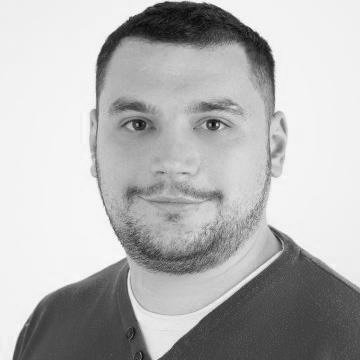
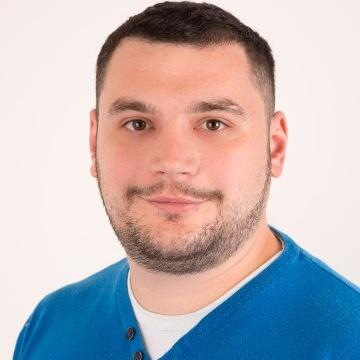
Skills animation.

diff --git a/index.html b/index.html
@@ -55,14 +55,38 @@
             display: flex;
             padding: 10px;
             position: relative;
+            cursor: pointer;
         }
 
         .avatar {
+            position: relative;
             width: 100px;
             height: 100px;
             min-width: 100px;
-            border-radius: 50%;
             margin: 0 30px 0 0;
+            transition: width 0.5s, height 0.5s, margin-right 0.5s;
+        }
+
+        .avatar img {
+            width: 100%;
+            height: 100%;
+            border-radius: 50%;
+            filter: grayscale(100%);
+            transition: filter 0.5s;
+        }
+
+        .content:hover .avatar {
+            width: 180px;
+            height: 180px;
+            margin-right: 150px;
+        }
+
+        .content:hover .avatar img {
+            filter: grayscale(0);
+        }
+
+        .content:hover .skills {
+            opacity: 1;
         }
 
         .link {
@@ -100,7 +124,15 @@
         }
 
         .skills {
-            display: none;
+            position: absolute;
+            top: 50%;
+            left: 50%;
+            width: 200px;
+            height: 200px;
+            border-radius: 50%;
+            transform: translate3d(-50%, -50%, 0);
+            opacity: 0;
+            transition: opacity 0.5s;
         }
 
         .skill {
@@ -109,14 +141,98 @@
             background-color: #222;
             white-space: nowrap;
             color: #fff;
-            padding: 0 10px;
             box-sizing: border-box;
+            position: absolute;
+            padding: 0 10px;
+            transform-origin: -100px 50%;
+            text-transform: uppercase;
+            font-size: 12px;
+            top: 50%;
+            left: 50%;
+            margin-left: 100px;
+            margin-top: -10px;
+            pointer-events: none;
         }
+
+        .skill span {
+            display: block;
+        }
+
+        .skill:nth-child(1)  { transform:  rotate(calc((360deg / 26) * 1)); } 
+        .skill:nth-child(2)  { transform:  rotate(calc((360deg / 26) * 2)); }
+        .skill:nth-child(3)  { transform:  rotate(calc((360deg / 26) * 3)); }
+        .skill:nth-child(4)  { transform:  rotate(calc((360deg / 26) * 4)); }
+        .skill:nth-child(5)  { transform:  rotate(calc((360deg / 26) * 5)); }
+        .skill:nth-child(6)  { transform:  rotate(calc((360deg / 26) * 6)); }
+        .skill:nth-child(7)  { transform:  rotate(calc((360deg / 26) * 7)); }
+        .skill:nth-child(8)  { transform:  rotate(calc((360deg / 26) * 8)); }
+        .skill:nth-child(9)  { transform:  rotate(calc((360deg / 26) * 9)); }
+        .skill:nth-child(10) { transform:  rotate(calc((360deg / 26) * 10)); }
+        .skill:nth-child(11) { transform:  rotate(calc((360deg / 26) * 11)); }
+        .skill:nth-child(12) { transform:  rotate(calc((360deg / 26) * 12)); }
+        .skill:nth-child(13) { transform:  rotate(calc((360deg / 26) * 13)); }
+        .skill:nth-child(14) { transform:  rotate(calc((360deg / 26) * 14)); }
+        .skill:nth-child(15) { transform:  rotate(calc((360deg / 26) * 15)); }
+        .skill:nth-child(16) { transform:  rotate(calc((360deg / 26) * 16)); }
+        .skill:nth-child(17) { transform:  rotate(calc((360deg / 26) * 17)); }
+        .skill:nth-child(18) { transform:  rotate(calc((360deg / 26) * 18)); }
+        .skill:nth-child(19) { transform:  rotate(calc((360deg / 26) * 19)); }
+        .skill:nth-child(20) { transform:  rotate(calc((360deg / 26) * 20)); }
+        .skill:nth-child(21) { transform:  rotate(calc((360deg / 26) * 21)); }
+        .skill:nth-child(22) { transform:  rotate(calc((360deg / 26) * 22)); }
+        .skill:nth-child(23) { transform:  rotate(calc((360deg / 26) * 23)); }
+        .skill:nth-child(24) { transform:  rotate(calc((360deg / 26) * 24)); }
+        .skill:nth-child(25) { transform:  rotate(calc((360deg / 26) * 25)); } 
+        .skill:nth-child(26) { transform:  rotate(calc((360deg / 26) * 26)); }
+
+        .skill:nth-child(7)  span { transform: rotate(180deg); }
+        .skill:nth-child(8)  span { transform: rotate(180deg); }
+        .skill:nth-child(9)  span { transform: rotate(180deg); }
+        .skill:nth-child(10) span { transform: rotate(180deg); }
+        .skill:nth-child(11) span { transform: rotate(180deg); }
+        .skill:nth-child(12) span { transform: rotate(180deg); }
+        .skill:nth-child(13) span { transform: rotate(180deg); }
+        .skill:nth-child(14) span { transform: rotate(180deg); }
+        .skill:nth-child(15) span { transform: rotate(180deg); }
+        .skill:nth-child(16) span { transform: rotate(180deg); }
+        .skill:nth-child(17) span { transform: rotate(180deg); }
+        .skill:nth-child(18) span { transform: rotate(180deg); }
+        .skill:nth-child(19) span { transform: rotate(180deg); }
     </style>
 </head>
 <body>
     <div class="content">
-        <img class="avatar" src="photo.jpg">
+        <figure class="avatar">
+            <div class="skills">
+                <div class="skill"><span>Html</span></div>
+                <div class="skill"><span>Css</span></div>
+                <div class="skill"><span>Sass</span></div>
+                <div class="skill"><span>Less</span></div>
+                <div class="skill"><span>Stylus</span></div>
+                <div class="skill"><span>JavaScript</span></div>
+                <div class="skill"><span>CoffeeScript</span></div>
+                <div class="skill"><span>React</span></div>
+                <div class="skill"><span>React Native</span></div>
+                <div class="skill"><span>Redux</span></div>
+                <div class="skill"><span>Vue</span></div>
+                <div class="skill"><span>Angular</span></div>
+                <div class="skill"><span>Backbone</span></div>
+                <div class="skill"><span>Ember</span></div>
+                <div class="skill"><span>Python</span></div>
+                <div class="skill"><span>Express JS</span></div>
+                <div class="skill"><span>Electron JS</span></div>
+                <div class="skill"><span>Django</span></div>
+                <div class="skill"><span>ActionScript</span></div>
+                <div class="skill"><span>Webpack</span></div>
+                <div class="skill"><span>Gulp</span></div>
+                <div class="skill"><span>Gulp</span></div>
+                <div class="skill"><span>Git</span></div>
+                <div class="skill"><span>Agile</span></div>
+                <div class="skill"><span>Wowza</span></div>
+                <div class="skill"><span>Live Streaming</span></div>
+            </div>
+            <img src="photo.jpg">
+        </figure>
         <div>
             <h1>Hello, I'm <strong>Eugene</strong></h1>
             <h2>I'm <strong>Frontend Developer</strong> living in Luxembourg.</h2>
@@ -127,43 +243,6 @@
[1 lines of base64/hex data omitted]
         <a href="https://github.com/marinescuevghenii" class="link github"></a>
         <a href="https://www.linkedin.com/in/marinescu" class="link linkedin"></a>
-    </div>
-    <div class="skills">
-        <div class="skill">Html</div>
-
-        <div class="skill">Css</div>
-        <div class="skill">Sass</div>
-        <div class="skill">Less</div>
-        <div class="skill">Stylus</div>
-        
-        <div class="skill">JavaScript</div>
-        <div class="skill">CoffeeScript</div>
-
-        <div class="skill">React</div>
-        <div class="skill">React Native</div>
-        <div class="skill">Redux</div>
-        <div class="skill">Vue</div>
-        <div class="skill">Angular</div>
-        <div class="skill">Backbone</div>
-        <div class="skill">Ember</div>
-
-        <div class="skill">Python</div>
-
-        <div class="skill">Express JS</div>
-        <div class="skill">Django</div>
-
-        <div class="skill">ActionScript</div>
-
-        <div class="skill">Webpack</div>
-        <div class="skill">Gulp</div>
-        <div class="skill">Grunt</div>
-
-        <div class="skill">Git</div>
-
-        <div class="skill">Agile</div>
-
-        <div class="skill">Wowza</div>
-        <div class="skill">Live Streaming</div>
     </div>
     <script>
     </script>
